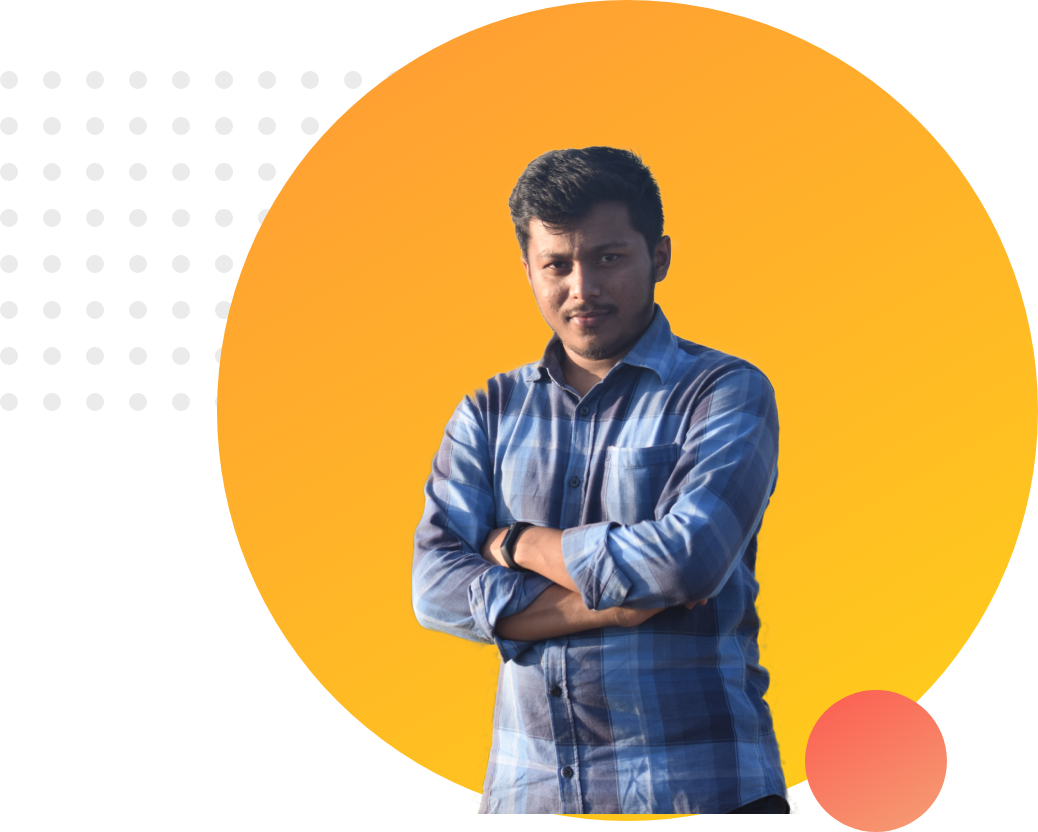
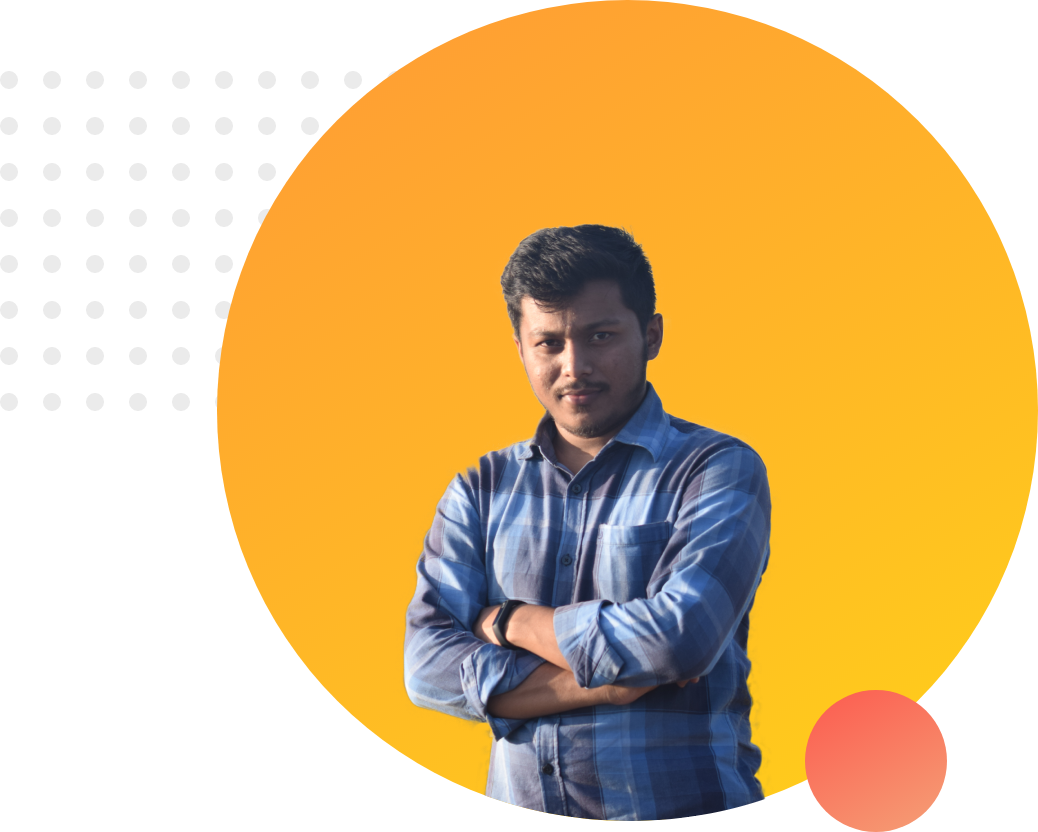
added middle part

Changed region(s): [[0.3699, 0.1562, 0.7707, 1.0]]

diff --git a/index.html b/index.html
@@ -8,17 +8,48 @@
     <link rel="stylesheet" href="style.css">
 </head>
 <body>
-    <section>
+    <section class="top-banner">
         <div class="half-width">
             <h1>Welcome To</h1>
-            <h1><span class="name-highlight">Sadik</span> Website</h1>
+            <h1><span class="orange-highlight">Sadik</span> Website</h1>
             <h3>World-class Professional Web Dev</h3>
             <p>Web Developer can work on internet sites, as well as on intranet sites. They are usually employed by companies specialized in software development, IT, or computer consulting. Web Developers usually work for a firm or company, nevertheless, some Web Developers offer their services on a freelance basis</p>
+            <a class="link-button" target="_blank" href="https://www.linkedin.com/in/md-sadik-jabirul-hasan-70b979158/">HIRE ME</a>
             
         </div>
         <div class="half-width">
             <img src="images/profile.png" alt="">
         </div>
+    </section>
+    <section class="dream-area">
+        <div class="half-width">
+            <img src="images/profile2.png" alt="">
+
+        </div>
+        <div class="half-width">
+            <h2>Big Dream</h2>
+            <h3>Become World's No. 1 Developer</h3>
+            <p>I already learn the basic HTML and CSS.I can build any simple website.I can even teach google how to make simple website. My goal is to build 3 websites and learn advanced topics. </p>
+            <a class="link-button" target="_blank" href="https://www.facebook.com/?_rdc=1&_rdr">DOWNLOAD RESUME</a>
+
+        </div>
+
+    </section>
+    <section class="experince-area">
+        <h2>Experiences</h2>
+        <div class="half-width">
+            <h2 >Full Stack Web Dev</h2>
+            <h3 class="orange-highlight">2021 - Present | Pro Level Web Dev</h3>
+            <p>In this post I’m going to be giving you both the wider scope and some of the details of what this sought-after job entails, and my experiences within the field, answering that question for both the novice and the more experienced coder alike. So, let’s take a look at what we’re going to cover—simply select any of the following sections to jump straight to it.</p>
+
+        </div>
+        <div class="half-width">
+            <h2>Baby Web Developer</h2>
+            <h3 class="orange-highlight">2020 - 2021 | Programming Hero Learner</h3>
+            <p>They didn't offer me a job. But I made myself as a remove web Developer. I made their Website and showed it to them. They liked it. And Uploaded the content. t was fun working at programming Hero.</p>
+
+        </div>
+
     </section>
     
 </body>

diff --git a/style.css b/style.css
@@ -1,10 +1,17 @@
 body{
     font-family: 'Poppins', sans-serif;
+    margin: 0;
 }
 h1{
     font-size: 50px;
 }
-.name-highlight{
+h2{
+    font-size: 40px;
+}
+p{
+    color: dimgray;
+}
+.orange-highlight{
     color: orange;
 }
 .half-width{
@@ -15,4 +22,26 @@ h1{
 }
 .half-width img{
     width: 100%;
+}
+.top-banner{
+    
+    background-image: url("images/top-banner.png");
+    background-repeat: no-repeat;
+}
+section{
+    height: 500px;
+    padding-bottom: 150px;
+}
+.link-button{
+    text-decoration: none;
+    background-image: linear-gradient(45deg,lightsalmon, tomato);
+    padding: 8px 16px;
+    font-weight: 700;
+    border-radius: 5px;
+    color: #fff;
+}
+.dream-area{
+    background-image:url("images/dream-bg.png");
+    background-repeat: no-repeat;
+    background-position: right;
 }
